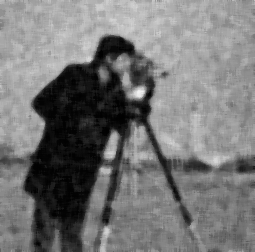
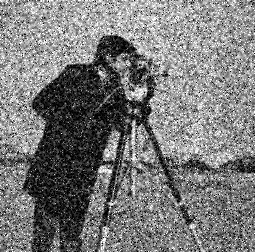
dodalem to nowe filtry podpialem je do pierwszych 2 przyciskow
stare filtry sa zakomentowane

diff --git a/main.py b/main.py
@@ -1,7 +1,7 @@
 import tkinter as tk
 from inne import delete_file, saveMultipleImg, save_image
-from filters import adaptive_median_filter
-from filters import adaptive_wiener_filter
+from filters import sobel_canny_binary_gaussian_filter
+from filters import advanced_edge_preserving_filter
 from filters import adaptive_gaussian_filter
 from filters import bilateral_filter
 from tkinter import ttk
@@ -78,7 +78,6 @@ def add_min_max(nois_min, nois_max):
 
 default_Folder = "images"
 def choose_image(label):
-    """Open file dialog to choose an image and load it."""
     global default_Folder
     global button_clicked
     button_clicked = True
@@ -87,7 +86,6 @@ def choose_image(label):
         load_image(img_path, label)
 
 def update_label(val):
-    """Update the slider label and add noise with the current slider value."""
     sliderLabel.config(text=f"Value: {float(val):.2f}")
     if selectedImg:
         if isGaussian:
@@ -101,18 +99,31 @@ def on_hover(event, frame, label):
     button_width = event.widget.winfo_width()
 
     # Ustaw pozycję hover frame po prawej stronie przycisku
-    frame.place(x=button_x + button_width - 250, y=button_y + 110)
+    frame.place(x=1150, y=90)
     label.place(x = 10, y=10)
 
 def off_hover(event, frame, label):
     frame.place_forget()
     label.place_forget()
 
+def adjust_scale():
+    scaling_factor = root.tk.call("tk","scaling");
+    print(f"Obecna skala: {scaling_factor}")
+    dpi = root.winfo_pixels('1i')
+    print(f"Rozpoznana DPI: {dpi}")
+
+    scale_factor  = dpi / 96
+    root.tk.call("tk", "scaling", scale_factor )
+    print(f"Nowa skala: {scale_factor }")
+
 root = tk.Tk()
+root.state("zoomed")
 root.title("Filtry adaptacyjne")
 
+adjust_scale()
+
 str1 = tk.StringVar(value="Filtry adaptacyjne") 
-str2 = tk.StringVar(value="Adaptacyjny Filtr Medianowy") 
+str2 = tk.StringVar(value="Filtrowanie Sobela, Cannym, binaryzacji i Gaussa") 
 str3 = tk.StringVar(value="Adaptacyjny Filtr Wienerowski") 
 str4 = tk.StringVar(value="Adaptacyjny Filtr Gaussowski") 
 str5 = tk.StringVar(value="Filtr Bilateralny") 
@@ -196,22 +207,19 @@ frame3.place(relx=0.66666, rely=0.5, relwidth=0.33333, relheight=0.5)
 # Zielony Frame na przyciski
 
 buttonFrame = tk.Frame(frameButtons, bg='#326f39')
-buttonFrame.pack(padx=0, pady=0)
+buttonFrame.place(relx=0.27, rely=0.27, relheight=0.6, relwidth=0.45)
 
 butt1Fr =  tk.Frame(buttonFrame, bg='#326f39')
-butt1Fr.pack(side=tk.LEFT, padx=10, pady=10)
+butt1Fr.place(relx=-0.025, rely=-0.15, relheight=0.55, relwidth=0.55)
 
 butt2Fr =  tk.Frame(buttonFrame, bg='#326f39')
-butt2Fr.pack(side=tk.LEFT, padx=10, pady=10)
+butt2Fr.place(relx=0.5, rely=-0.15, relheight=0.55, relwidth=0.55)
 
 butt3Fr =  tk.Frame(buttonFrame, bg='#326f39')
-butt3Fr.pack(side=tk.LEFT, padx=10, pady=10)
+butt3Fr.place(relx=-0.025, rely=0.38, relheight=0.55, relwidth=0.55)
 
 butt4Fr =  tk.Frame(buttonFrame, bg='#326f39')
-butt4Fr.pack(side=tk.LEFT, padx=10, pady=10)
-
-butt5Fr =  tk.Frame(buttonFrame, bg='#326f39')
-butt5Fr.pack(side=tk.LEFT, padx=10, pady=10)
+butt4Fr.place(relx=0.5, rely=0.38, relheight=0.55, relwidth=0.55)
 
 
 # Frame dla wyświetlania obrazu
@@ -222,12 +230,12 @@ frameImg.pack(side=tk.TOP, padx=10, pady=10)
 # Frame dla wyświetlania zaszumionego obrazu
 
 frameImgSzum = tk.Frame(frame2, bg='blue')
-frameImgSzum.pack( padx=10, pady=10)
+frameImgSzum.pack(padx=10, pady=10)
 
 sliderFrame = ttk.Frame(frame2)
 sliderFrame.pack(side=tk.RIGHT, padx=2, pady=2)
 
-slider = ttk.Scale(sliderFrame, length=300 ,from_=0, to=100, orient="vertical", command=update_label)
+slider = ttk.Scale(sliderFrame, length=300 ,from_=100, to=0, orient="vertical", command=update_label)
 slider.pack(pady=10)
 
 sliderLabel = ttk.Label(sliderFrame, text="Value: 0")
@@ -246,70 +254,67 @@ enPLButt.pack(side="top", anchor="e")
 # Przycisk do filtra medianowego (button1)
 
 button1 = tk.Button(butt1Fr, textvariable=str2, width=24, height=4, cursor="hand2", font=("Arial", 15),
-                    command=lambda: adaptive_median_filter("outputFolder/NoisyImg.jpg", label3))
-button1.pack(side=tk.BOTTOM, padx=50, pady=0)
+                    command=lambda: sobel_canny_binary_gaussian_filter("outputFolder/NoisyImg.jpg", label3))
+button1.place(relx=0.2, rely= 0.5,relwidth=0.6, relheight=0.5)
 
 # Przycisk do filtra Wienerowskiego (button2)
 
 button2 = tk.Button(butt2Fr, textvariable=str3, width=24, height=4, cursor="hand2", font=("Arial", 15),
-                    command=lambda: adaptive_wiener_filter("outputFolder/NoisyImg.jpg", label3))
-button2.pack(side=tk.BOTTOM, padx=50, pady=0)
+                    command=lambda: advanced_edge_preserving_filter("outputFolder/NoisyImg.jpg", label3))
+button2.place(relx=0.2, rely= 0.5,relwidth=0.6, relheight=0.5)
 
 # Przycisk do filtra Gaussa 
 
 button3 = tk.Button(butt3Fr, textvariable=str4, width=24, height=4, cursor="hand2", font=("Arial", 15),
                     command=lambda: adaptive_gaussian_filter("outputFolder/NoisyImg.jpg", label3))
-button3.pack(side=tk.BOTTOM, padx=50, pady=0)
+button3.place(relx=0.2, rely= 0.5,relwidth=0.6, relheight=0.5)
 # Przycisk do filtra bilateralnego
 
 
 button4 = tk.Button(butt4Fr, textvariable=str5, width=24, height=4, cursor="hand2", font=("Arial", 15),
                     command=lambda: bilateral_filter("outputFolder/NoisyImg.jpg", label3))
-button4.pack(side=tk.BOTTOM, padx=50, pady=0)
+button4.place(relx=0.2, rely= 0.5,relwidth=0.6, relheight=0.5)
 
 
 Sciezka = "outputFolder/NoisyImg.jpg"
 
 # Przycisk do zaszumienia obrazu
-
 szumFrame = tk.Frame(frame2, bg="#327fd5")
-szumFrame.place(relx=0.1, rely=0, relheight=0.20)
+szumFrame.pack(padx=10, pady=2)
 
 open_button1 = tk.Button(frame1, textvariable=str6, width=12, command=lambda: choose_image(label1), cursor="hand2", font=("Arial", 11))
 open_button1.pack(padx=10, pady=10)
 
-open_button2 = tk.Button(szumFrame, textvariable=str7, width=18, command=lambda: add_noise(0, 50), cursor="hand2", font=("Arial", 11))
+open_button2 = tk.Button(szumFrame, textvariable=str7, width=18, command=lambda: add_noise(0, 0), cursor="hand2", font=("Arial", 11))
 open_button2.pack(side=tk.LEFT, padx=10, pady=10)
 
-open_button2_min_max = tk.Button(szumFrame, textvariable=str14, width=18, command=lambda: add_min_max(-50, 50), cursor="hand2", font=("Arial", 11))
+open_button2_min_max = tk.Button(szumFrame, textvariable=str14, width=18, command=lambda: add_min_max(0, 0), cursor="hand2", font=("Arial", 11))
 open_button2_min_max.pack(side=tk.RIGHT ,padx=10, pady=10)
 
 open_button3 = tk.Button(frame3, textvariable=str8, width=12, command=lambda: saveMultipleImg(cv2.imread("outputFolder/NoisyImg.jpg"), "SavedImages"), cursor="hand2", font=("Arial", 11))
 open_button3.pack(padx=10, pady=10)
 
 
+# to tu label 2 
 label2 = tk.Label(frame2, bg="#327fd5")
-label2.pack(expand=True, padx=10, pady=(10, 75))  # 10 pikseli od góry, 50 pikseli od dołu
+label2.pack(padx=10, pady=0)
 
-
-
-
-label1 = tk.Label(frame1)
+label1 = tk.Label(frame1, bg="#3256d5")
 label1.pack(padx=10, pady=10)
 
-label3 = tk.Label(frame3)
+label3 = tk.Label(frame3, bg="#32bfd5")
 label3.pack(padx=10, pady=10)
 
 
-hovFrame1 = tk.Frame(root, bg="#111110", width=200, height=180)
-hovFrame2 = tk.Frame(root, bg="#111110", width=200, height=180)
-hovFrame3 = tk.Frame(root, bg="#111110", width=200, height=180)
-hovFrame4 = tk.Frame(root, bg="#111110", width=200, height=180)
+hovFrame1 = tk.Frame(root, bg="#111110", width=300, height=280)
+hovFrame2 = tk.Frame(root, bg="#111110", width=300, height=280)
+hovFrame3 = tk.Frame(root, bg="#111110", width=300, height=280)
+hovFrame4 = tk.Frame(root, bg="#111110", width=300, height=280)
 
-hovLabel1 = tk.Label(hovFrame1, textvariable=str10, bg="#111110", fg="white", wraplength=170)
-hovLabel2 = tk.Label(hovFrame2, textvariable=str11, bg="#111110", fg="white", wraplength=170)
-hovLabel3 = tk.Label(hovFrame3, textvariable=str12, bg="#111110", fg="white", wraplength=170)
-hovLabel4 = tk.Label(hovFrame4, textvariable=str13, bg="#111110", fg="white", wraplength=170)
+hovLabel1 = tk.Label(hovFrame1, textvariable=str10, bg="#111110", fg="white", wraplength=280, font=("Arial", 16))
+hovLabel2 = tk.Label(hovFrame2, textvariable=str11, bg="#111110", fg="white", wraplength=280, font=("Arial", 16))
+hovLabel3 = tk.Label(hovFrame3, textvariable=str12, bg="#111110", fg="white", wraplength=280, font=("Arial", 16))
+hovLabel4 = tk.Label(hovFrame4, textvariable=str13, bg="#111110", fg="white", wraplength=280, font=("Arial", 16))
 
 button1.bind("<Enter>", lambda e: on_hover(e,hovFrame1, hovLabel1))  
 button1.bind("<Leave>", lambda e: off_hover(e, hovFrame1, hovLabel1))
@@ -322,6 +327,14 @@ button3.bind("<Leave>", lambda e: off_hover(e, hovFrame3, hovLabel3))
 
 button4.bind("<Enter>", lambda e: on_hover(e,hovFrame4, hovLabel4))  
 button4.bind("<Leave>", lambda e: off_hover(e, hovFrame4, hovLabel4))
+
+def resize(ev):
+    width = ev.width
+    height = ev.height
+    print(f"Window resized to: {width}x{height}")
+    adjust_scale()
+
+root.bind("<Configure>", resize)
 
 root.mainloop()
 

diff --git a/filters.py b/filters.py
@@ -9,7 +9,7 @@ from scipy.signal import wiener
 # Filtruje zaszumiony obraz z scieżki: "outputFolder/NoisyImg.jpg"
 # potem zapisuje ten obraz do outputFolder jako FilImg.png
 # robi to żeby później można było go zapisać do folderu "ZapisaneObrazy" po kliknięciu Zapisz obraz
-    
+'''
 def adaptive_median_filter(img_path, label, max_window_size=7):
     """
     Optymalizacja filtra medianowego z wykorzystaniem wbudowanego cv2.medianBlur.
@@ -58,6 +58,93 @@ def adaptive_wiener_filter(img_path, label):
 
     # Zapis obrazu do folderu
     saveImg(filtered_img, 'outputFolder', 'FilImg.png')
+
+
+'''
+
+def sobel_canny_binary_gaussian_filter(img_path, label):
+    """
+    Delikatne filtrowanie obrazów za pomocą Sobela, Cannym, binaryzacji i Gaussa.
+    
+    Args:
+        img_path (str): Ścieżka do obrazu wejściowego.
+        label (tk.Label): Etykieta Tkintera do wyświetlenia obrazu.
+    """
+    # Załaduj obraz w odcieniach szarości
+    img = cv2.imread(img_path, cv2.IMREAD_GRAYSCALE)
+
+
+   # Filtr Gaussa (delikatne wygładzenie szumów na wejściu)
+    gaussian_blur = cv2.GaussianBlur(img, (3, 3), 0)
+
+    # Filtr Sobela (zmniejszona intensywność gradientów)
+    sobel_x = cv2.Sobel(gaussian_blur, cv2.CV_64F, 1, 0, ksize=3)
+    sobel_y = cv2.Sobel(gaussian_blur, cv2.CV_64F, 0, 1, ksize=3)
+    sobel_combined = np.sqrt(sobel_x**2 + sobel_y**2)
+    sobel_combined = np.clip(sobel_combined, 0, 255).astype(np.uint8)
+
+    # Binaryzacja adaptacyjna
+    adaptive_binary = cv2.adaptiveThreshold(
+        sobel_combined, 255, cv2.ADAPTIVE_THRESH_GAUSSIAN_C, cv2.THRESH_BINARY, 11, 2
+    )
+
+    # Delikatna filtracja Gaussa na końcu
+    final_output = cv2.GaussianBlur(adaptive_binary, (3, 3), 0)
+
+    # Przeskalowanie obrazu do wyświetlenia w Tkinterze
+    displayImg = Image.fromarray(final_output)
+    displayImg = displayImg.resize((300, 300), Image.LANCZOS)
+
+    # Wyświetlenie obrazu w Tkinterze
+    img_display = ImageTk.PhotoImage(displayImg)
+    label.config(image=img_display)
+    label.image = img_display
+
+    # Zapis obrazu do folderu
+    saveImg(final_output, 'outputFolder', 'FilImg.png')
+
+    
+def advanced_edge_preserving_filter(img_path, label):
+    """
+    Filtr zachowujący krawędzie:
+    - Sobel do wykrycia krawędzi.
+    - Canny do binaryzacji.
+    - Filtr Gaussowski do punktów niebędących krawędziami.
+    """
+    # Załaduj obraz w odcieniach szarości
+    img = cv2.imread(img_path, cv2.IMREAD_GRAYSCALE)
+ 
+
+    # Krok 1: Sobel - Detekcja krawędzi
+    sobel_x = cv2.Sobel(img, cv2.CV_64F, 1, 0, ksize=3)
+    sobel_y = cv2.Sobel(img, cv2.CV_64F, 0, 1, ksize=3)
+    sobel_edges = cv2.magnitude(sobel_x, sobel_y)  # Kombinacja gradientów
+    sobel_edges = cv2.convertScaleAbs(sobel_edges)  # Konwersja do zakresu 0-255
+
+    # Krok 2: Canny - Binaryzacja krawędzi
+    canny_edges = cv2.Canny(sobel_edges, 50, 150)
+
+    # Krok 3: Maskowanie punktów krawędziowych
+    # Tworzymy maskę punktów niebędących krawędziami
+    mask_non_edges = cv2.bitwise_not(canny_edges)
+
+    # Krok 4: Filtracja Gaussowska (dolnoprzepustowa) na reszcie punktów
+    gaussian_blur = cv2.GaussianBlur(img, (3, 3), 0)
+
+    # Krok 5: Łączenie krawędzi i filtrowanego tła
+    # Krawędzie pozostają oryginalne, reszta punktów jest filtrowana
+    result = cv2.bitwise_and(img, canny_edges) + cv2.bitwise_and(gaussian_blur, mask_non_edges)
+
+    # Wyświetlenie wyniku w Tkinterze
+    displayImg = Image.fromarray(result)
+    displayImg = displayImg.resize((300, 300), Image.LANCZOS)
+
+    img_display = ImageTk.PhotoImage(displayImg)
+    label.config(image=img_display)
+    label.image = img_display
+
+    # Zapis przetworzonego obrazu do pliku
+    saveImg(result, 'outputFolder', 'FilImg.png')
 
 
 def adaptive_gaussian_filter(img_path, label, kernel_size=15, max_sigma=5.0):
